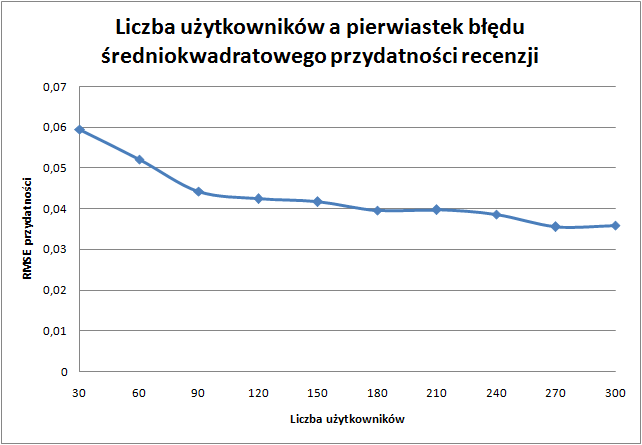
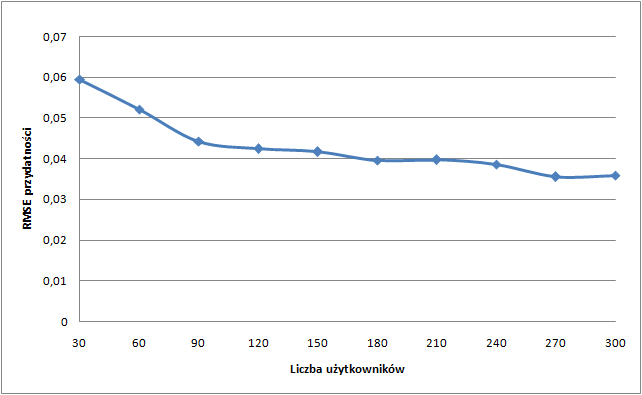
Poprawki w opisie algorytmu

diff --git a/algorytm.tex b/algorytm.tex
@@ -1,13 +1,90 @@
 \chapter{Algorytm rankingowy}
 
+\section{Idea algorytmu rankingowego}
+
+Przedstawiona w rozdziale drugim koncepcja średniej Bayesa została wykorzystana do stworzenia wzoru pozwalającego obliczyć przydatność recenzji. Dzięki niej, użytkownik może w łatwy sposób odfiltrować treści ocenione przez innych użytkowników jako nieprzydatne i zapoznać się z rzetelną recenzją interesującego go produktu. System umożliwia bowiem sortowanie recenzji wg ich przydatności. Własność ta, budowana jest przede wszystkim na podstawie głosów oddanych przez użytkowników systemu, którzy zapoznając się z recenzją, mają możliwość oznaczenia jej jako przydatna lub nie.
+
+Nie jest to jednak jedyne zastosowanie przydatności w naszym systemie. Ma ona bowiem także wpływ na wagę oceny recenzji w ostatecznej ocenie produktu. Każdy z produktów w systemie może posiadać wiele recenzji, a każda z nich zawiera subiektywną ocenę opisywanego produktu nadaną przez jej autora. Obliczanie łącznej oceny produktu jako średniej arytmetycznej ocen wynikających z recenzji może prowadzić do uzyskania oceny, która nie oddaje we właściwy sposób faktycznej wartości produktu. Możliwa jest bowiem sytuacja, w której produkt zostanie oceniony przez nierzetelnych użytkowników, którzy z różnych przyczyn, np. będąc pracownikami konkurencyjnego producenta będą zabiegali o celowe zaniżenie oceny produktu. Aby uniknąć wspomnianej sytuacji, w celu obliczenia ostatecznej oceny zastosowano średnią ważoną ocen pochodzących z recenzji danego produktu, gdzie wagami są przydatności recenzji. Dzięki temu wiarygodne recenzje, napisane przez rzetelnych użytkowników, mają większą wagę, a co za tym idzie większy wpływ na ocenę produktu.
+
+Wzór pozwalający na obliczenie przydatności recenzji R ma następującą postać:
+
+\begin{equation}
+\bar{x_{R}}=\frac{w_{m}Cm+w_{g}\frac{p}{p+n}(p+n)+w_{a}\frac{p_{a}}{p_{a}+n_{a}}(p_{a}+n_{a})}{w_{m}C+w_{g}(p+n)+w_{a}(p_{a}+n_{a})}*100\%
+\end{equation}
+gdzie:\\
+m - domyślna przydatność recenzji, czyli średnia arytmetyczna przydatności wszystkich recenzji w systemie\\
+C - stała dobrana eksperymentalnie\\
+p - liczba głosów pozytywnych oddanych na recenzję R\\
+n - liczba głosów negatywnych oddanych na recenzję R\\
+$p_{a}$ - liczba głosów pozytywnych oddanych na wszystkie recenzje autora recenzji R\\
+$n_{a}$ - liczba głosów negatywnych oddanych na wszystkie recenzje autora recenzji R\\
+$w_{m}$ - waga domyślnej przydatności recenzji\\
+$w_{g}$ - waga głosów oddanych na recenzję R\\
+$w_{a}$ - waga głosów oddanych na wszystkie recenzje autora recenzji R.\\
+
+
+Podstawowym składnikiem przedstawionego wzoru są głosy oddane przez użytkowników systemu. Zostały one przedstawione jako iloczyn stosunku liczby głosów pozytywnych do wszystkich oddanych na daną recenzję i łącznej liczby głosów. Wyrażenie $\frac{p}{p+n}$ odpowiada wartości x, natomiast $(p + n)$, wartości n w definicji średniej Bayesa przedstawionej w punkcie \ref{sec:algTeotia}.
+
+Przydatność recenzji nie zależy jednak tylko od głosów oddanych przez użytkowników. Jednym z dodatkowych czynników jest domyślna przydatność recenzji, będąca średnią arytmetyczną przydatności wszystkich recenzji w systemie. Wartość ta odpowiada wartości domyślnej m w przedstawionej wcześniej koncepcji średniej Bayesa i również występuje wraz ze stałą wartością C, która została dobrana eksperymentalnie.
+
+Ostatnim czynnikiem wpływającym na użyteczność recenzji jest ocena autora, wyrażona jako iloczyn stosunku liczby głosów pozytywnych do wszystkich oddanych na recenzje danego użytkownika oraz łącznej liczby głosów oddanych na jego recenzje. Obecność oceny autora we wzorze, jest zabezpieczeniem systemu przed zalewem treści sponsorowanych. Publikujący je użytkownik otrzyma negatywne głosy, które obniżą jego ocenę, dzięki czemu przydatność wszystkich jego recenzji również zostanie zmniejszona. Tym samym istnieje mniejsze prawdopodobieństwo, że dotrą one do użytkownika końcowego, poszukującego rzetelnych informacji o produkcie. 
+
+Wszystkim czynnikom składającym się na przydatność recenzji zostały dodatkowo przypisane wagi, tak aby można było kontrolować ich wpływ na obliczaną wartość.
+
+Warto zauważyć, że przytoczony wzór można łatwo zredukować to prostszej postaci:
+
+\begin{equation}\label{eq:przydatnosc}
+\bar{x_{R}}=\frac{w_{m}Cm+w_{g}{p}+w_{a}p_{a}}{w_{m}C+w_{g}(p+n)+w_{a}(p_{a}+n_{a})}*100\%
+\end{equation}\\
+
+Uproszczona w ten sposób formuła została zaimplementowana w naszej aplikacji.
+
+Kolejnym wartością której obliczanie bazuje na koncepcji średniej Bayesa jest ranga recenzenta. Dzięki niej użytkownik uzyskuje poglądową informację o ogólnej jakości wszystkich recenzji napisanych przez użytkownika. Wartość ta obliczana jest według przedstawionego poniżej wzoru:
+
+\begin{equation}\label{eq:ocUzyt}
+\bar{x_{U}}=\frac{w_{ma}C_{a}m_{a}+w_{a}p_{a}}{w_{ma}C_{a}+w_{g}(p+n)+w_{a}(p_{a}+n_{a})}*100\%
+\end{equation}
+gdzie:\\
+$m_{a}$ - domyślna ocena użytkownika, równa 0,5\\
+$C_{a}$ - stała dobrana eksperymentalnie\\
+$p_{a}$ - liczba głosów pozytywnych oddanych na wszystkie recenzje autora recenzji R\\
+$n_{a}$ - liczba głosów negatywnych oddanych na wszystkie recenzje autora recenzji R\\
+$w_{ma}$ - waga domyślnej oceny użytkownika\\
+$w_{a}$ - waga głosów oddanych na recenzje autora recenzji R\\
+
+Wyliczona w ten ocena użytkownika mapowana jest na jedną z dostępnych rang, zależnie od jej wartości. Tabela \ref{tab:rangi} przedstawia rangi dostępne w systemie wraz z odpowiadającymi im zakresami wartości oceny użytkownika wyliczonej za pomocą wzoru \ref{eq:ocUzyt}.
+
+\begin{table}[H]
+\centering
+\begin{tabular}{|c||c|}  
+\hline
+\textbf{Ranga} & \textbf{Wartość [\%]} \\
+\hline\hline
+\textbf{Niekompetentny} & 0-20 \\  
+\hline
+\textbf{Niezaufany} & 20-40 \\  
+\hline
+\textbf{Przeciętny} & 40-60 \\  
+\hline
+\textbf{Godny zaufania} & 60-80 \\  
+\hline
+\textbf{Ekspert} & 80-100 \\  
+\hline
+\end{tabular}
+\caption{Rangi użytkowników}\label{tab:rangi}
+\end{table}
+
+
 \section{Opis eksperymentów}
 
 \subsection{Przygotowanie danych i symulacja}
 
 W celu weryfikacji stworzonej przez nas koncepcji algorytmu rankingowego stworzona została aplikacja symulująca proces oceniania recenzji. Model danych aplikacji testowej jest uproszony względem systemu revCommunity i obejmuje tylko użytkowników i recenzje. 
 Każdy z użytkowników posiada zbiór recenzji swojego autorstwa, liczbę recenzji które oceni w trakcie symulacji, a także wartość procentową określającą  domyślne prawdopodobieństwo otrzymania pozytywnego głosu przez recenzję jego autorstwa. Dodatkowo każdy z użytkowników może zostać oznaczony jako oszust, co spowoduje, że w trakcie głosowania będzie oceniał dobre recenzje jako złe i odwrotnie. Użytkownicy - oszuści mają za zadanie symulować obecnych w realnym świecie użytkowników sponsorowanych.
+
 Recenzje posiadają natomiast unikatowy identyfikator, liczbę uzyskanych głosów pozytywnych i negatywnych, przydatność, autora, a także prawdopodobieństwo otrzymania pozytywnego głosu, które jest liczbą losową z zakresu [90\% x ; 110\% x], gdzie x to domyślne prawdopodobieństwo otrzymania pozytywnego głosu przypisane do autora recenzji. Należy dodatkowo zaznaczyć, że wylosowane prawdopodobieństwo jest zawsze liczbą z zakresu [0;1]
-Ważną rolę w programie testowym odgrywają także parametry, pozwalające sterować przebiegiem symulacji. Wszystkie dostępne ustawienia deklarowane są w klasie AbstractParameters, z której dziedziczy klasa Parameters określająca domyślną wartość każdego parametru. Na jej podstawie budowane są kolejne zbiory parametrów przydatne dla poszczególnych testów, nadpisujące tylko niezbędne wartości. Najważniejsze parametry, które można dostosować w opisywanej aplikacji testowej to:
+
+Ważną rolę w programie testowym odgrywają także parametry, pozwalające sterować przebiegiem symulacji. Wszystkie dostępne ustawienia deklarowane są w klasie Parameters, która definiuje jednocześnie ich domyślne wartości. Na jej podstawie budowane są kolejne zbiory parametrów przydatne dla poszczególnych testów, nadpisujące tylko niezbędne wartości. Najważniejsze parametry, które można dostosować w opisywanej aplikacji testowej to:
 
 \begin{itemize}
 \item Wagi oraz wartości stałe wykorzystywane podczas obliczania przydatności recenzji i oceny autora,
@@ -17,15 +94,15 @@ Ważną rolę w programie testowym odgrywają także parametry, pozwalające ste
 \end{itemize}
 
 
-Wykonie symulacji wymaga wcześniejszego wygenerowania kolekcji użytkowników i recenzji. W celu lepszego odwzorowania rzeczywistości użytkownicy zostają podzieleni na trzy grupy:  przeciętnych, aktywnych i biernych. Użytkownikowi należącemu do odpowiedniej grupy przypisywana jest następnie liczba recenzji które oceni podczas symulacji. Średnia liczba recenzji przypadająca na użytkownika określana jest za pomocą stałej wartości ze zbioru parametrów i odpowiada ona liczbie recenzji ocenianych przez przeciętnych użytkowników. Użytkownicy aktywni mają natomiast przyporządkowaną losową wartość większą od średniej, a użytkownicy bierni mniejszą. Następnie, spośród wszystkich użytkowników losowana jest określona przez parametry liczba oszustów. Ostatnim elementem procesu jest wylosowanie użytkowników będących autorami recenzji. Każdemu z nich przyporządkowywane jest domyślne prawdopodobieństwo otrzymania pozytywnego głosu. Kolejnym etapem jest proces generowania recenzji, w którym każdej z nich przyporządkowywany jest losowy autor, a także losowane jest prawdopodobieństwo otrzymania pozytywnego głosu.
+Wykonie symulacji wymaga wcześniejszego wygenerowania kolekcji użytkowników i recenzji. W celu lepszego odwzorowania rzeczywistości użytkownicy zostają podzieleni na trzy grupy: przeciętnych, aktywnych i biernych. Użytkownikowi należącemu do odpowiedniej grupy przypisywana jest następnie liczba recenzji, które oceni on podczas symulacji. Średnia liczba recenzji przypadająca na użytkownika określana jest za pomocą stałej wartości, pochodzącej ze zbioru parametrów i odpowiada ona liczbie recenzji ocenianych przez przeciętnych użytkowników. Użytkownicy aktywni mają natomiast przyporządkowaną losową wartość większą od średniej, a użytkownicy bierni mniejszą. Następnie, spośród wszystkich użytkowników losowana jest określona przez parametry liczba oszustów. Ostatnim elementem procesu jest wylosowanie użytkowników będących autorami recenzji. Każdemu z nich przyporządkowywane jest domyślne prawdopodobieństwo otrzymania pozytywnego głosu. Kolejnym etapem jest proces generowania recenzji, w którym każdej z nich przyporządkowywany jest losowy autor, a także losowane jest prawdopodobieństwo otrzymania pozytywnego głosu.
 
 Po wygenerowaniu niezbędnych obiektów następuje symulacja oceniania recenzji przez użytkowników. Pierwszym etapem procesu jest wylosowanie dla każdego użytkownika określonej liczby recenzji, które oceni w czasie symulacji. Następnie, dla każdej z nich losowana jest wartość z zakresu [0;1], która jeśli okaże się większa lub równa prawdopodobieństwu otrzymania pozytywnego głosu powoduje zwiększenie licznika głosów negatywnych recenzji. W przeciwnym wypadku inkrementowany jest licznik głosów pozytywnych. Sytuacja wygląda inaczej jeżeli oceniający jest oszustem. Wtedy wylosowanie liczby większej niż przypisane recenzji prawdopodobieństwo skutkuje dodaniem głosu pozytywnego. 
 
-Ostatecznie dla każdej recenzji wyliczana jest przydatność przy wykorzystaniu omówionego w rozdziale drugim wzoru i przygotowywany jest specyficzny dla danego testu raport.
+Ostatecznie, dla każdej recenzji wyliczana jest przydatność przy wykorzystaniu wzoru \ref{eq:przydatnosc} i przygotowywany jest specyficzny dla danego testu raport.
 
 \subsection{Test I - przegląd danych}
 
-Pierwszy z przygotowanych przez nas testów umożliwia pełny podgląd systemu po przeprowadzeniu symulacji. Jego kod źródłowy znajduje się w klasie DefaultTest. Dzięki niemu możemy podejrzeć podstawowe informacje, takie jak wagi użyte do obliczania przydatności czy średnią użyteczność w systemie, ale również szczegółowe dane dotyczące recenzji i recenzentów. Dla recenzji są to kolejno:
+Pierwszy z zaproponowanych testów umożliwia pełny podgląd systemu po przeprowadzeniu symulacji. Jego kod źródłowy znajduje się w klasie DefaultTest. Dzięki niemu możemy podejrzeć podstawowe informacje, takie jak wagi użyte do obliczania przydatności czy średnią użyteczność w systemie, ale również szczegółowe dane dotyczące recenzji i recenzentów. Dla recenzji są to kolejno:
 
 \begin{itemize}
 \item identyfikator,
@@ -60,7 +137,7 @@ $y_{t}$ - wartość uzyskana\\
 
 \subsection{Test II - Badanie wpływu liczby głosów na błąd przydatności}
 
-Kolejny test, którego źródło znajduje się w klasie ProgressiveTest, posłużył do zbadania zależności pomiędzy liczbą użytkowników, która przekłada się na liczbę oddanych głosów, a różnicą pomiędzy spodziewaną i uzyskaną wartością przydatności, wyrażoną w postaci RMSE. Intuicja podpowiada, że im więcej głosów oddano na recenzję, tym jej przydatność jest bardziej wiarygodna, a tym samym błąd powinien być mniejszy. Aby sprawdzić czy wspomniana zależność jest zachowana, przygotowaliśmy test, w którym symulacja powtarzana jest kilkakrotnie, za każdym razem z dla innej liczby użytkowników. Przed wykonaniem testu istnieje możliwość ustawienia początkowej i końcowej wartości tego parametru, a także wartość o jaką parametr ten będzie zwiększany w każdej iteracji. Liczba recenzji dla każdej iteracji pozostaje stała.
+Kolejny test, którego kod źródłowy znajduje się w klasie ProgressiveTest, posłużył do zbadania zależności pomiędzy liczbą użytkowników, która przekłada się na liczbę oddanych głosów, a różnicą pomiędzy spodziewaną i uzyskaną wartością przydatności, wyrażoną w postaci RMSE. Intuicja podpowiada, że im więcej głosów oddano na recenzję, tym jej przydatność jest bardziej wiarygodna, a tym samym błąd powinien być mniejszy. Aby sprawdzić czy wspomniana zależność jest zachowana, przygotowaliśmy test, w którym symulacja powtarzana jest kilkakrotnie, za każdym razem z dla innej liczby użytkowników. Przed wykonaniem testu istnieje możliwość ustawienia początkowej i końcowej wartości tego parametru, a także wartość o jaką parametr ten będzie zwiększany w każdej iteracji. Liczba recenzji dla każdej iteracji pozostaje stała.
 
 
 Poniżej przedstawiono raport uzyskany po wykonaniu testu dla 100 recenzji i wzrastającej liczby użytkowników z zakresu od 30 do 300. Nagłówek zawiera wartość stałą i wagi wykorzystane do obliczenia przydatności recenzji. Poniżej znajdują informacje o każdej z iteracji. Pierwsza kolumna informuje o liczbie użytkowników. Kolejna zawiera błąd w postaci RMSE, natomiast ostatnia średnią liczbę głosów przypadających na recenzję. Poniżej przedstawiono również wykres stworzony na podstawie raportu. Obrazuje on wpływ wzrostu liczby użytkowników na wartość RMSE.
@@ -86,7 +163,7 @@ users	RMSE	votes/review
 
 \begin{figure}[h]
 	\centering
-	\includegraphics[scale=0.7]{images/ProgressiveTest.png}
+	\includegraphics[width=\textwidth, keepaspectratio=true]{images/ProgressiveTest.png}
 	\caption{Liczba użytkowników a pierwiastek błędu średniokwadratowego przydatności recenzji}
 \end{figure}
 
@@ -94,14 +171,13 @@ Analizując uzyskane dane, można zauważyć, że wzrost liczby użytkowników, 
 
 \subsection{Test III - Badanie odporności systemu na obecność użytkowników - oszustów}
 
-Ostatni z testów dotyczy odporności systemu na obecność użytkowników - oszustów. Jego kod źródłowy znajduje się w pliku LiarsTest.java. Głównym celem testu jest sprawdzenie jak zmienia się wartość błędu wraz z wzrostem liczby kłamców w systemie. Podobnie jak w poprzednim teście, kolejne symulacje przeprowadzane są dla rosnącej liczby użytkowników, lecz dodatkowo także dla rosnącej liczby oszustów. Przedstawiony poniżej fragment raportu zbliżony jest do raportu z poprzedniego testu. W nagłówku drukowane są parametry średniej Bayesa, a następnie kolejno w kolumnach: udział procentowy oszustów, RMSE dla przydatności i średnia liczba głosów przypadająca na recenzję. Każda seria danych posiada także informację o liczbie użytkowników.
+Ostatni z testów dotyczy odporności systemu na obecność użytkowników - oszustów. Jego kod źródłowy znajduje się w pliku LiarsTest.java. Głównym celem testu jest sprawdzenie jak zmienia się wartość błędu wraz ze wzrostem liczby kłamców w systemie. Podobnie jak w poprzednim teście, kolejne symulacje przeprowadzane są dla rosnącej liczby użytkowników, lecz dodatkowo także dla rosnącej liczby oszustów. Przedstawiony poniżej fragment raportu zbliżony jest do raportu z poprzedniego testu. W nagłówku drukowane są parametry średniej Bayesa, a następnie kolejno w kolumnach: udział procentowy oszustów, RMSE dla przydatności i średnia liczba głosów przypadająca na recenzję. Każda seria danych posiada także informację o liczbie użytkowników.
 
 \begin{lstlisting}
 defaultUsefulnessWeight: 1
 reviewRateWeight: 8
 authorRateWeight: 3
 const: 15
-
 
 liars%	RMSE	votes/review
 
@@ -112,26 +188,36 @@ users:	210
 30	0.16595	39.14167
 40	0.22776	40.04167
 50	0.26943	40.64167
+
+users:	240	
+0	0,04187	45,54167
+10	0,07347	45,54167
+20	0,11544	47,65833
+30	0,1736	45,70833
+40	0,23685	46,825
+50	0,28964	46,11667
+
+...
 \end{lstlisting}
 
-Poniżej przedstawiony został wykres ukazujący wpływ ilości kłamców na wartość RMSE dla przydatności. Na osi rzędnych znajdują się wartości RMSE przydatności, natomiast na osi odciętych liczba użytkowników. Poszczególne serie danych dotyczą innej wartości procentowego udziału oszustów i zostały oznaczone kolorami. Liczba recenzji jest stała i wynosi 120.
+Przedstawiony poniżej wykres \ref{fig:test3} ukazuje wpływ liczby kłamców na wartość RMSE dla przydatności. Na osi rzędnych znajdują się wartości RMSE przydatności, natomiast na osi odciętych liczba użytkowników. Poszczególne serie danych dotyczą innej wartości procentowego udziału oszustów i zostały oznaczone kolorami. Liczba recenzji jest stała i wynosi 120.
 
 \begin{figure}[h]
 	\centering
-	\includegraphics[scale=0.7]{images/LiarsTest.png}
-	\caption{Liczba użytkowników a pierwiastek błędu średniokwadratowego przydatności recenzji}
+	\includegraphics[width=\textwidth, keepaspectratio=true]{images/LiarsTest.png}
+	\caption{Liczba użytkowników a pierwiastek błędu średniokwadratowego przydatności recenzji}\label{fig:test3}
 \end{figure}
 
 Jak widać na powyższym wykresie, wzrost liczby oszustów w systemie skutkuje wzrostem wartości błędu niezależnie od liczby użytkowników. Ponadto, warto zauważyć, że przy dziesięcioprocentowym udziale oszustów w systemie wartość błędu różni się nieznacznie od wartości błędu w sytuacji gdy wszyscy użytkownicy są rzetelni.
 
 \section{Implementacja}
 
-W celu implementacji algorytmu rankingowego stworzone zostały metody pozwalające obliczyć przydatność recenzji i ocenę recenzenta, a także metody pomocnicze obliczające ich składowe. Przydatność recenzji oraz ocena autora zrealizowane zostały jako pola, odpowiednio w klasach Review i User, których obiekty przechowywane są w bazie danych. Umożliwiło nam to przede wszystkim efektywne sortowanie danych na poziomie bazy danych. Wspomniane wartości obliczane są za każdym razem gdy któryś z użytkowników odda głos na recenzję. Część kliencka aplikacji rozpoczyna wtedy asynchroniczną komunikację z serwerem i wysyła informację o typie głosu, identyfikatorze recenzji i nazwie użytkownika, który ten  głos oddał. Na serwerze, dane przetwarzane są w ramach jednej transakcji dzięki czemu zachowana jest ich spójność \cite{springAction}. Głos zostaje skojarzony z zalogowanym użytkownikiem i ocenioną recenzją, a następnie obliczana jest nowa wartość użyteczności recenzji i rangi jej autora. Wartości te są następnie przesyłane do warstwy klienckiej i  prezentowane użytkownikowi.
+W celu implementacji algorytmu rankingowego stworzone zostały metody pozwalające obliczyć przydatność recenzji i ocenę recenzenta, a także metody pomocnicze obliczające ich składowe. Przydatność recenzji oraz ocena autora zrealizowane zostały jako pola, odpowiednio w klasach Review i User, których obiekty przechowywane są w bazie danych. Umożliwiło nam to przede wszystkim efektywne sortowanie danych na poziomie bazy danych. Wspomniane wartości obliczane są za każdym razem gdy któryś z użytkowników odda głos na recenzję. Część kliencka aplikacji rozpoczyna wtedy asynchroniczną komunikację z serwerem i wysyła informację o typie głosu, identyfikatorze recenzji i nazwie użytkownika oddającego głos. Na serwerze, dane przetwarzane są w ramach jednej transakcji\cite{springAction}, dzięki czemu zachowana jest ich spójność. Głos zostaje skojarzony z zalogowanym użytkownikiem i ocenioną recenzją, a następnie obliczana jest nowa wartość użyteczności recenzji i rangi jej autora. Wartości te są następnie przesyłane do warstwy klienckiej i  prezentowane użytkownikowi.
 
-Jednym z elementów potrzebnych do obliczenia przydatności recenzji jest średnia przydatność wszystkich recenzji w systemie. W przypadku bardzo dużej bazy danych obliczenie tej wartości byłoby bardzo czasochłonne, a to spowodowałoby znaczny wzrost czasu odpowiedzi serwisu. Aby temu zapobiec, postanowiliśmy przechowywać aktualną wartość średniej w bazie danych i aktualizować ją okresowo przy wykorzystaniu biblioteki Quartz, która umożliwia wykonywanie zadań w określonych odstępach czasu bez interakcji z użytkownikiem.\cite{quartz} Każdorazowe przeliczenie średniej wiąże się dodatkowo z przeliczeniem przydatności dla każdej recenzji, tak by odzwierciedlały aktualny stan systemu i można było je porównywać. Oczywiście, takie rozwiązanie najlepiej sprawdza się w przypadku gdy liczba  recenzji w bazie jest stosunkowo duża, ponieważ można wtedy założyć, że pojedynczy głos ma bardzo mały wpływ na średnią i jej ciągłe przeliczanie byłoby nieopłacalne.
+Jednym z elementów potrzebnych do obliczenia przydatności recenzji jest średnia przydatność wszystkich recenzji w systemie. W przypadku bardzo dużej bazy danych obliczenie tej wartości byłoby czasochłonne, a to spowodowałoby znaczny wzrost czasu odpowiedzi serwisu. Aby temu zapobiec, aktualna wartość średniej przechowywana jest w bazie danych i aktualizowana okresowo przy wykorzystaniu biblioteki Quartz, która umożliwia wykonywanie zadań w określonych odstępach czasu bez interakcji z użytkownikiem.\cite{quartz} Każdorazowe przeliczenie średniej wiąże się dodatkowo z przeliczeniem przydatności dla każdej recenzji, tak by odzwierciedlały one aktualny stan systemu i można było je porównywać. Oczywiście, takie rozwiązanie najlepiej sprawdza się w przypadku gdy liczba  recenzji w bazie jest stosunkowo duża, ponieważ można wtedy założyć, że pojedynczy głos ma bardzo mały wpływ na średnią i jej ciągłe przeliczanie byłoby nieopłacalne.
 
 \section{Problemy i wnioski}
 
-Przedstawiona koncepcja algorytmu rankingowego może być z powodzeniem zastosowana w komercyjnym serwisie. Dzięki zastosowaniu średniej Bayesa, system daje użytkownikowi możliwość zaobserwowania nie tylko jak dany produkt jest oceniany ale także jak wypada na tle innych produktów. Dodatkowo, ranking zbudowany przy zastosowaniu proponowanej koncepcji jest bardziej wiarygodny i odporny na manipulację przez nieuczciwych użytkowników.
+Przedstawiona koncepcja algorytmu rankingowego może być z powodzeniem zastosowana w komercyjnym serwisie. Dzięki zastosowaniu średniej Bayesa do obliczania przydatności, system daje użytkownikowi możliwość zaobserwowania nie tylko jak dana recenzja jest oceniana, ale także jak wypada na tle innych recenzji. Dodatkowo, w porównaniu do konwencjonalnych rozwiązań, ranking zbudowany przy zastosowaniu proponowanej koncepcji jest bardziej wiarygodny i odporny na manipulację przez nieuczciwych użytkowników.
 
 Proponowane rozwiązanie niesie ze sobą także pewne problemy. Najważniejszym z nich jest dobór stałych wykorzystywanych we wzorach na przydatność i rangę użytkownika. Wartości te dobierane są w oparciu o intuicję lub eksperymentalnie, co niesie ryzyko, że wybrana ostatecznie konfiguracja okaże się nieoptymalna.

diff --git a/teoria.tex b/teoria.tex
@@ -1,4 +1,4 @@
-\chapter{Wstęp teoretyczny}
+\chapter{Podstawy teoretyczne}
 
 \section{Istniejące rozwiązania}
 Obecnie w sieci istnieje wiele serwisów umożliwiających porównywanie, ocenianie i tworzenie opinii o produktach. Są to między innymi cokupić.pl,  ceneo.pl, nokaut.pl, skapiec.pl oraz kupujemy.pl. Wszystkie te serwisy oferują pomoc przy zakupie określonego produktu. Posiadają one aktualną bazę wielu produktów znajdujących się na rynku przez co umożliwiają użytkownikowi zapoznanie się z nimi. Najbardziej zawansowanymi projektami, które oferują szereg funkcjonalności są ceneo.pl oraz skapiec.pl. Oba serwisy umożliwiają przede wszystkim porównywanie cen produktów pochodzących z różnych sklepów. Posiadają one  również rozwinięty system opiniowania produktów. Użytkownicy mogą wypowiadać się na temat każdego produktu, wypisywać jego wady i zalety, a także oceniać czy opnie innych użytkowników są przydatne. Funkcjonalność udostępniana przez te serwisy została również wdrożona w projekcie RevCommunity. W naszym systemie duży nacisk został położony na stworzenie algorytmu rankingowego, który umożliwia ocenianie recenzji w sposób bardziej wiarygodny. Ten element systemu sprawia, że jest on konkurencyjny w stosunku do wyżej wymienionych portali. 
@@ -49,13 +49,12 @@ W przykładzie zliczono liczbę wszystkich węzłów w grafie. Aby bardziej wyko
 Widzimy tutaj nową klauzulę START, która jak nazwa wskazuje pozwala zdefiniować początkowy węzeł od którego rozpocznie się dopasowanie zawarte w klauzuli MATCH. W zapytaniu użyliśmy dwóch zmiennych - user i review. Do zmiennej user przypisujemy węzeł, który posiada wartości "jkowalski" w polu userName(część indeksu o nazwie "users"). Dalej dla tego wierzchołka wyszukane są wszystkie wyjściowe łuki o etykiecie "WROTE". Dzięki temu udało się dojść do węzłów recenzji, które zwrócono przy pomocy klauzuli RETURN. Ostatnia klauzula definiuje sortowanie po tytule recenzji w sposób analogiczny do języka SQL. Warto tutaj zwrócić uwagę na skalowalność grafowych baz danych w porównaniu do modelu relacyjnego. Gdyby spróbować napisać powyższe zapytanie w języku SQL musielibyśmy połączyć dwie tabele użytkowników i recenzji. Koszt takiego połączenia jest tym większy im więcej rekordów zawiera każda z tabel. W rzeczywistych systemach z czasem danych przybywa, więc aplikacja działałaby coraz wolniej. Natomiast w grafowej bazie danych węzły nie są zależne od siebie, a dostęp do ich powiązań jest bardzo szybki, dlatego czas wykonania zapytania pozostałby stały mimo rozrastania się grafu. Różnica wydajności między podejściami wzrosłaby, gdyby w zapytaniu dodać kolejne połączenie np. dotyczące komentarzy recenzji. W takim przypadku w RBD konieczne byłoby połączenie trzech tabel, co przy dużej liczbie rekordów byłoby bardzo kosztowne.
 
 
-
-
 \section{Podstawy do stworzenie algorytmu rankingowego}
+\label{sec:algTeotia}
 
 Jak wspomniano w rozdziale drugim, wiele istniejących systemów opiera się o proste metody oceniania treści, które często okazują się zawodne. Jedną z często spotykanych praktyk jest zastosowanie średniej arytmetycznej do obliczenia ostatecznej oceny widocznej dla użytkowników danego serwisu, a także wykorzystywanej np. do sortowania wyników wyszukiwania czy też porównywania pewnych treści. Przykładem systemu wykorzystującego wspomniany mechanizm jest popularny serwis internetowy cokupić.pl, dający użytkownikom możliwość oceniania produktów. Rozważmy scenariusz w którym użytkownik korzysta z systemu w celu znalezienia najlepiej ocenianego przez internautów telefonu komórkowego. Załóżmy, że po zastosowaniu odpowiednich filtrów użytkownikowi przedstawione zostają dwa produkty, A i B. Pierwszy z nich został oceniony przez pięćdziesięciu użytkowników i posiada średnią ocenę 3.5. Drugi oceniły tylko dwie osoby przydzielając oceny 3 i 5, zatem jego średnia ocena wynosi 4. Średnia ocena produktu B jest nieznacznie wyższa, zatem zostaje on zaprezentowany użytkownikowi jako pierwszy, podczas gdy produkt A posiada znacznie więcej ocen, a tym samym wiarygodność jego średniej oceny jest wyższa, co może mieć duży wpływ na decyzję użytkownika. Warto zauważyć, że w opisanym podejściu brakuje odniesienia średniej oceny produktu do innych ocen w systemie, przez co porównywanie produktów czy też budowanie właściwego rankingu jest utrudnione.
 
-Aby uniknąć wspomnianych problemów, zaproponowano podejście oparte na średniej Bayesa. Średnia Bayesa jest metodą obliczania wartości średniej populacji wraz z uwzględnieniem pewnych zewnętrznych danych związanych z rozważaną populacją. Dodanie czynnika zewnętrznego ma na celu zredukowanie wpływu pojedynczych wartości odbiegających od średniej na ostateczny wynik. Dodatkowo czynnik ten pełni rolę wartości domyślnej czyli takiej do której dąży wartość średniej Bayesa w przypadku małego zbioru danych.\cite{bayesWiki}
+Aby uniknąć wspomnianych problemów, zaproponowano podejście oparte na średniej Bayesa. Średnia Bayesa jest metodą obliczania wartości średniej populacji wraz z uwzględnieniem pewnych zewnętrznych danych związanych z rozważaną populacją. Dodanie czynnika zewnętrznego ma na celu zredukowanie wpływu pojedynczych wartości odbiegających od średniej na ostateczny wynik. Dodatkowo czynnik ten pełni rolę wartości domyślnej, czyli takiej, do której dąży wartość średniej w przypadku małego zbioru danych.\cite{bayesWiki} Poniżej przedstawiono wzór średniej Bayesa.
 
 \begin{equation}
 \bar{x}=\frac{Cm+nx}{C+n}
@@ -68,81 +67,6 @@ n - liczba elementów zbioru\\
 
 
 Należy zaznaczyć, że dobór wartości domyślnej m i stałej C może zależeć od celu obliczeń, charakterystyki zbioru danych i intuicji osoby wykonującej obliczenia.
-
-Koncepcja średniej Bayesa została przez nas wykorzystana do stworzenia wzoru pozwalającego obliczyć przydatność recenzji, dzięki której użytkownik może w łatwy sposób odfiltrować treści ocenione jako nieprzydatne przez innych użytkowników i zapoznać się z rzetelną recenzją interesującego go produktu. System umożliwia bowiem sortowanie recenzji wg ich przydatności. Własność ta, budowana jest przede wszystkim na podstawie głosów oddanych przez innych użytkowników, którzy zapoznając się z recenzją mają możliwość jednokrotnego oddania głosu, oznaczając recenzję jako przydatną lub nie. Wspomniana cecha recenzji tworzona jest więc przy wykorzystaniu inteligencji tłumu. Użytkownicy są bowiem świadomi tego, że każda wystawiona przez nich ocena przyczynia się do budowania właściwej hierarchii recenzji w systemie, a ta jest przez nich pożądana.
-
-Nie jest to jednak jedyne zastosowanie przydatności w naszym systemie. Ma ona bowiem także wpływ na wagę oceny recenzji w ostatecznej ocenie produktu. Każdy z produktów w systemie może posiadać wiele recenzji, a każda z nich zawiera subiektywną ocenę opisywanego produktu wydaną przez jej autora. Obliczanie łącznej oceny produktu jako średniej arytmetycznej ocen wynikających z recenzji może prowadzić do uzyskania oceny, która nie oddaje we właściwy sposób faktycznej wartości produktu. Możliwa jest bowiem sytuacja, w której produkt zostanie oceniony przez nierzetelnych użytkowników, którzy z różnych przyczyn, np. będąc pracownikami konkurencyjnej firmy będą zabiegali o celowe zaniżenie oceny produktu. Aby uniknąć wspomnianej sytuacji, w celu obliczenia ostatecznej oceny zastosowano średnią ważoną ocen pochodzących z recenzji danego produktu gdzie wagami są przydatności recenzji. Dzięki temu wiarygodne  recenzje napisane przez rzetelnych użytkowników mają większą wagę, a co za tym idzie większy wpływ na ocenę produktu.
-
-Wzór pozwalający na obliczenie przydatności recenzji R ma następującą postać:
-
-\begin{equation}
-\bar{x_{R}}=\frac{w_{m}Cm+w_{g}\frac{p}{p+n}(p+n)+w_{a}\frac{p_{a}}{p_{a}+n_{a}}(p_{a}+n_{a})}{w_{m}C+w_{g}(p+n)+w_{a}(p_{a}+n_{a})}*100\%
-\end{equation}
-gdzie:\\
-m - domyślna przydatność recenzji, czyli średnia arytmetyczna przydatności wszystkich recenzji w systemie\\
-C - stała dobrana eksperymentalnie\\
-p - liczba głosów pozytywnych oddanych na recenzję R\\
-n - liczba głosów negatywnych oddanych na recenzję R\\
-$p_{a}$ - liczba głosów pozytywnych oddanych na wszystkie recenzje autora recenzji R\\
-$n_{a}$ - liczba głosów negatywnych oddanych na wszystkie recenzje autora recenzji R\\
-$w_{m}$ - waga domyślnej przydatności recenzji\\
-$w_{g}$ - waga głosów oddanych na recenzję R\\
-$w_{a}$ - waga głosów oddanych na wszystkie recenzje autora recenzji R.\\
-
-
-Podstawowym składnikiem przedstawionego wzoru są głosy oddane przez użytkowników systemu. Zostały one przedstawione jako iloczyn stosunku liczby głosów pozytywnych do wszystkich oddanych na daną recenzję i łącznej liczby głosów. Wyrażenie $\frac{p}{p+n}$ odpowiada wartości x w definicji średniej Bayesa, natomiast $(p + n)$, wartości n.
-
-Przydatność recenzji nie zależy jednak tylko od głosów oddanych przez użytkowników. Jednym z dodatkowych czynników jest domyślna przydatność recenzji, będąca średnią arytmetyczną przydatności wszystkich recenzji w systemie. Wartość ta odpowiada wartości domyślnej m w przedstawionej wcześniej koncepcji średniej Bayesa i również występuje wraz ze stałą wartością C, która została dobrana eksperymentalnie.
-
-Ostatnim czynnikiem wpływającym na użyteczność recenzji jest ocena autora wyrażona jako iloczyn stosunku liczby głosów pozytywnych do wszystkich oddanych na recenzje danego użytkownika oraz łącznej liczby głosów oddanych na jego recenzje. Obecność oceny autora we wzorze, jest zabezpieczeniem systemu przed zalewem treści sponsorowanych. Publikujący je użytkownik otrzyma negatywne głosy, które obniżą jego ocenę, dzięki czemu przydatność wszystkich jego recenzji również zostanie zmniejszona, a tym samym istnieje mniejsze prawdopodobieństwo, że dotrą do użytkownika końcowego, poszukującego rzetelnych informacji o produkcie. 
-
-Wszystkim czynnikom składającym się na przydatność recenzji zostały dodatkowo przypisane wagi, tak aby można było kontrolować ich wpływ na obliczaną wartość.
-
-Warto zauważyć, że przytoczony wzór można łatwo zredukować to prostszej postaci:
-
-\begin{equation}
-\bar{x_{R}}=\frac{w_{m}Cm+w_{g}{p}+w_{a}p_{a}}{w_{m}C+w_{g}(p+n)+w_{a}(p_{a}+n_{a})}*100\%
-\end{equation}\\
-
-Uproszczona w ten sposób formuła została zaimplementowana w naszej aplikacji.
-
-Kolejnym wartością której obliczanie bazuje na koncepcji średniej Bayesa jest ranga recenzenta. Dzięki niej użytkownik uzyskuje poglądową informację o ogólnej jakości wszystkich recenzji napisanych przez użytkownika. Wartość ta obliczana jest według przedstawionego poniżej wzoru:
-
-\begin{equation}
-\bar{x_{U}}=\frac{w_{ma}C_{a}m_{a}+w_{a}p_{a}}{w_{ma}C_{a}+w_{g}(p+n)+w_{a}(p_{a}+n_{a})}*100\%
-\end{equation}
-gdzie:\\
-$m_{a}$ - domyślna ocena użytkownika, równa 0,5\\
-$C_{a}$ - stała dobrana eksperymentalnie\\
-$p_{a}$ - liczba głosów pozytywnych oddanych na wszystkie recenzje autora recenzji R\\
-$n_{a}$ - liczba głosów negatywnych oddanych na wszystkie recenzje autora recenzji R\\
-$w_{ma}$ - waga domyślnej oceny użytkownika\\
-$w_{a}$ - waga głosów oddanych na recenzje autora recenzji R\\
-
-Wyliczona w ten ocena użytkownika mapowana jest na jedną z dostępnych rang, zależnie od wartości. Poniżej przedstawiono tabelę z rangami dostępnymi w systemie wraz z odpowiadającymi im zakresami wartości wyliczonej za pomocą przedstawionego wcześniej wzoru.
-
-\begin{table}[H]
-\centering
-\begin{tabular}{|c||c|}  
-\hline
-\textbf{Ranga} & \textbf{Wartość [\%]} \\
-\hline\hline
-\textbf{Niekompetentny} & 0-20 \\  
-\hline
-\textbf{Niezaufany} & 20-40 \\  
-\hline
-\textbf{Przeciętny} & 40-60 \\  
-\hline
-\textbf{Godny zaufania} & 60-80 \\  
-\hline
-\textbf{Ekspert} & 80-100 \\  
-\hline
-\end{tabular}
-\caption{Rangi użytkowników}
-\end{table}
-
-
-
 
 \section{Użyte technologie}
 Projekt został stworzony przy użyciu technologii webowych, aby umożliwić swobodną korzystanie z aplikacji z wykorzystaniem przeglądarki internetowej. Do stworzenia projektu zostały użyte:
